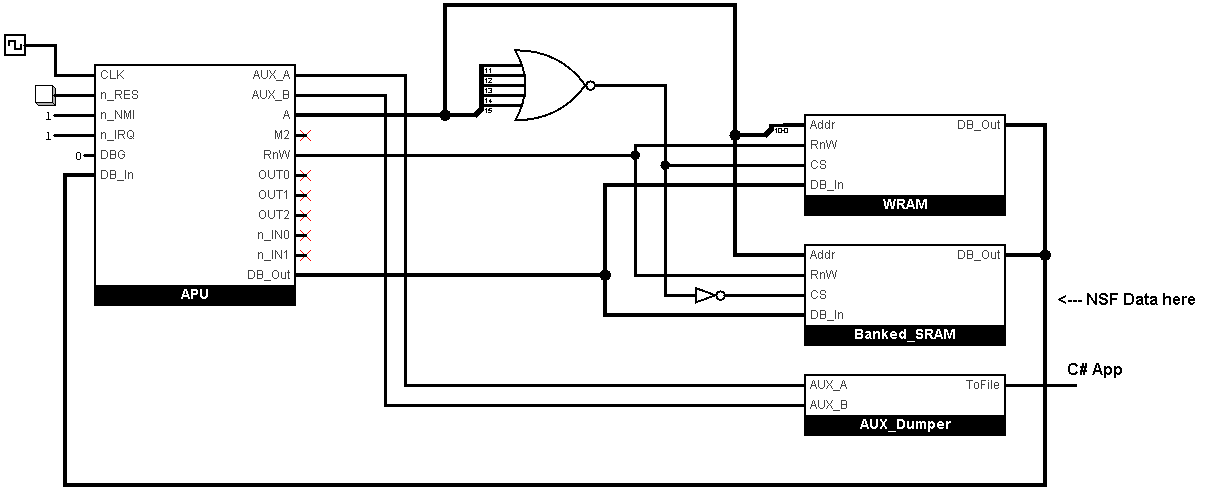
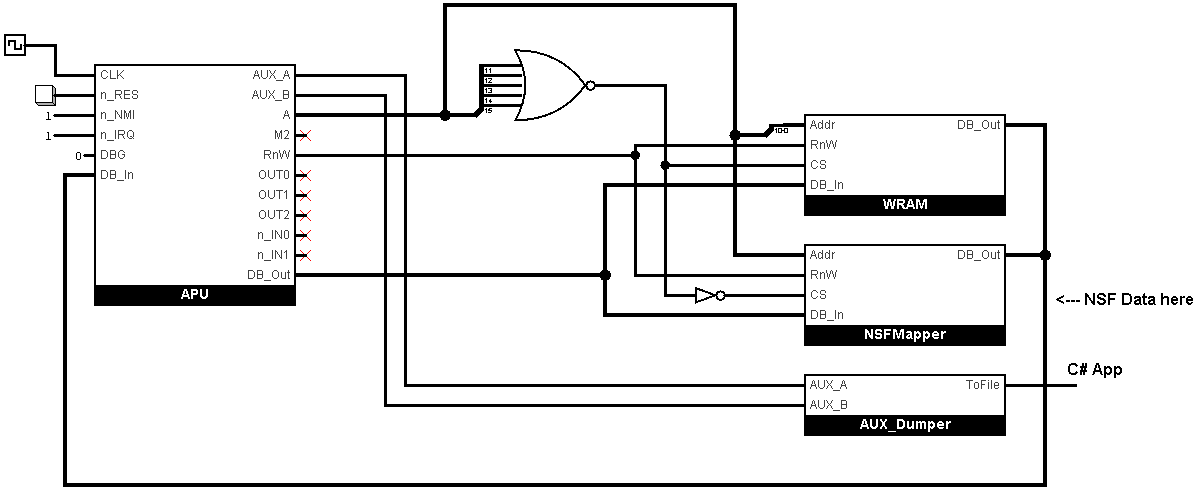
BankedSRAM -> NSFMapper

diff --git a/BreaksAPU/NSFPlayerInterop/NSFMapper.cpp b/BreaksAPU/NSFPlayerInterop/NSFMapper.cpp
@@ -1,6 +1,6 @@
 // A special type of memory with bank switching logic inside.
 
-// "SRAM" means that the memory can be read and written from the simulator side. But in essence it is a "smart" ROM with a loaded NSF Data image.
+// In essence it is a "smart" ROM with a loaded NSF Data image.
 
 #include "pch.h"
 
@@ -8,11 +8,11 @@ using namespace BaseLogic;
 
 namespace NSFPlayer
 {
-	BankedSRAM::BankedSRAM()
+	NSFMapper::NSFMapper()
 	{
 	}
 
-	BankedSRAM::~BankedSRAM()
+	NSFMapper::~NSFMapper()
 	{
 		if (ram != nullptr)
 		{
@@ -20,7 +20,7 @@ namespace NSFPlayer
 		}
 	}
 
-	void BankedSRAM::sim(TriState RnW, TriState CS, uint16_t addr, uint8_t* data)
+	void NSFMapper::sim(TriState RnW, TriState CS, uint16_t addr, uint8_t* data)
 	{
 		if (CS == TriState::Zero)
 			return;
@@ -64,12 +64,12 @@ namespace NSFPlayer
 		}
 	}
 
-	size_t BankedSRAM::Dbg_GetSize()
+	size_t NSFMapper::Dbg_GetSize()
 	{
 		return ram_size;
 	}
 
-	uint8_t BankedSRAM::Dbg_ReadByte(size_t addr)
+	uint8_t NSFMapper::Dbg_ReadByte(size_t addr)
 	{
 		if (addr < ram_size)
 		{
@@ -81,7 +81,7 @@ namespace NSFPlayer
 		}
 	}
 
-	void BankedSRAM::Dbg_WriteByte(size_t addr, uint8_t data)
+	void NSFMapper::Dbg_WriteByte(size_t addr, uint8_t data)
 	{
 		if (addr < ram_size)
 		{
@@ -89,17 +89,17 @@ namespace NSFPlayer
 		}
 	}
 
-	uint8_t BankedSRAM::GetBankReg(int n)
+	uint8_t NSFMapper::GetBankReg(int n)
 	{
 		return bank_regs[n & 7];
 	}
 
-	void BankedSRAM::SetBankReg(int n, uint8_t val)
+	void NSFMapper::SetBankReg(int n, uint8_t val)
 	{
 		bank_regs[n & 7] = val;
 	}
 
-	void BankedSRAM::LoadNSFData(uint8_t* data, size_t data_size, uint16_t load_address)
+	void NSFMapper::LoadNSFData(uint8_t* data, size_t data_size, uint16_t load_address)
 	{
 		if (ram)
 		{
@@ -114,7 +114,7 @@ namespace NSFPlayer
 		load_addr = load_address;
 	}
 
-	void BankedSRAM::sim_BankRegs(TriState RnW, int reg_id, uint8_t* data)
+	void NSFMapper::sim_BankRegs(TriState RnW, int reg_id, uint8_t* data)
 	{
 		if (RnW == TriState::One)
 		{
@@ -126,12 +126,12 @@ namespace NSFPlayer
 		}
 	}
 
-	void BankedSRAM::EnableNSFBanking(bool enable)
+	void NSFMapper::EnableNSFBanking(bool enable)
 	{
 		bank_switch_enabled = enable;
 	}
 
-	void BankedSRAM::sim_AccessNotBanked(TriState RnW, uint16_t addr, uint8_t* data)
+	void NSFMapper::sim_AccessNotBanked(TriState RnW, uint16_t addr, uint8_t* data)
 	{
 		if (addr < load_addr)
 			return;
@@ -144,7 +144,7 @@ namespace NSFPlayer
 		}
 	}
 
-	void BankedSRAM::sim_AccessBanked(TriState RnW, uint16_t addr, uint8_t* data)
+	void NSFMapper::sim_AccessBanked(TriState RnW, uint16_t addr, uint8_t* data)
 	{
 		if (addr < 0x8000)
 			return;
@@ -162,13 +162,13 @@ namespace NSFPlayer
 		}
 	}
 
-	size_t BankedSRAM::RoundUpPage(size_t size)
+	size_t NSFMapper::RoundUpPage(size_t size)
 	{
 		const size_t page_size = 0x1000;
 		return ((((size_t)(size)) + page_size - 1) & (~(page_size - 1)));
 	}
 
-	void BankedSRAM::SetFakeResetVector(uint16_t addr)
+	void NSFMapper::SetFakeResetVector(uint16_t addr)
 	{
 		fake_reset = addr;
 		faking_reset_fc = true;

diff --git a/BreaksAPU/NSFPlayerInterop/NSFMapper.h b/BreaksAPU/NSFPlayerInterop/NSFMapper.h
@@ -4,7 +4,7 @@
 
 namespace NSFPlayer
 {
-	class BankedSRAM
+	class NSFMapper
 	{
 		uint8_t bank_regs[8]{};
 
@@ -27,8 +27,8 @@ namespace NSFPlayer
 		uint16_t fake_reset = 0;
 
 	public:
-		BankedSRAM();
-		~BankedSRAM();
+		NSFMapper();
+		~NSFMapper();
 
 		void sim(BaseLogic::TriState RnW, BaseLogic::TriState CS, uint16_t addr, uint8_t* data);
 

diff --git a/BreaksAPU/NSFPlayerInterop/NSFPlayerBoard.h b/BreaksAPU/NSFPlayerInterop/NSFPlayerBoard.h
@@ -17,7 +17,7 @@ namespace NSFPlayer
 	class NSFPlayerBoard : public Board
 	{
 		M6502Core::M6502* core = nullptr;
-		BankedSRAM* sram = nullptr;
+		NSFMapper* sram = nullptr;
 		BaseBoard::SRAM* wram = nullptr;
 		const size_t wram_bits = 11;
 		const size_t wram_size = 1ULL << wram_bits;

diff --git a/BreaksAPU/NSFPlayerInterop/NSFPlayerBoard.cpp b/BreaksAPU/NSFPlayerInterop/NSFPlayerBoard.cpp
@@ -38,7 +38,7 @@ namespace NSFPlayer
 
 		core = new M6502Core::M6502(true, true);
 		apu = new APUSim::APU(core, rev);
-		sram = new BankedSRAM();
+		sram = new NSFMapper();
 		wram = new BaseBoard::SRAM(wram_bits);
 
 		for (int i = 0; i < wram->Dbg_GetSize(); i++)

diff --git a/BreaksAPU/NSFPlayerInterop/pch.h b/BreaksAPU/NSFPlayerInterop/pch.h
@@ -16,7 +16,7 @@
 #include "../../Common/BaseBoardLib/SRAM.h"
 #include "../../Common/BaseBoardLib/Fake6502.h"
 
-#include "BankedSRAM.h"
+#include "NSFMapper.h"
 #include "AbstractBoard.h"
 #include "NSFPlayerBoard.h"
 #include "APUPlayerBoard.h"
